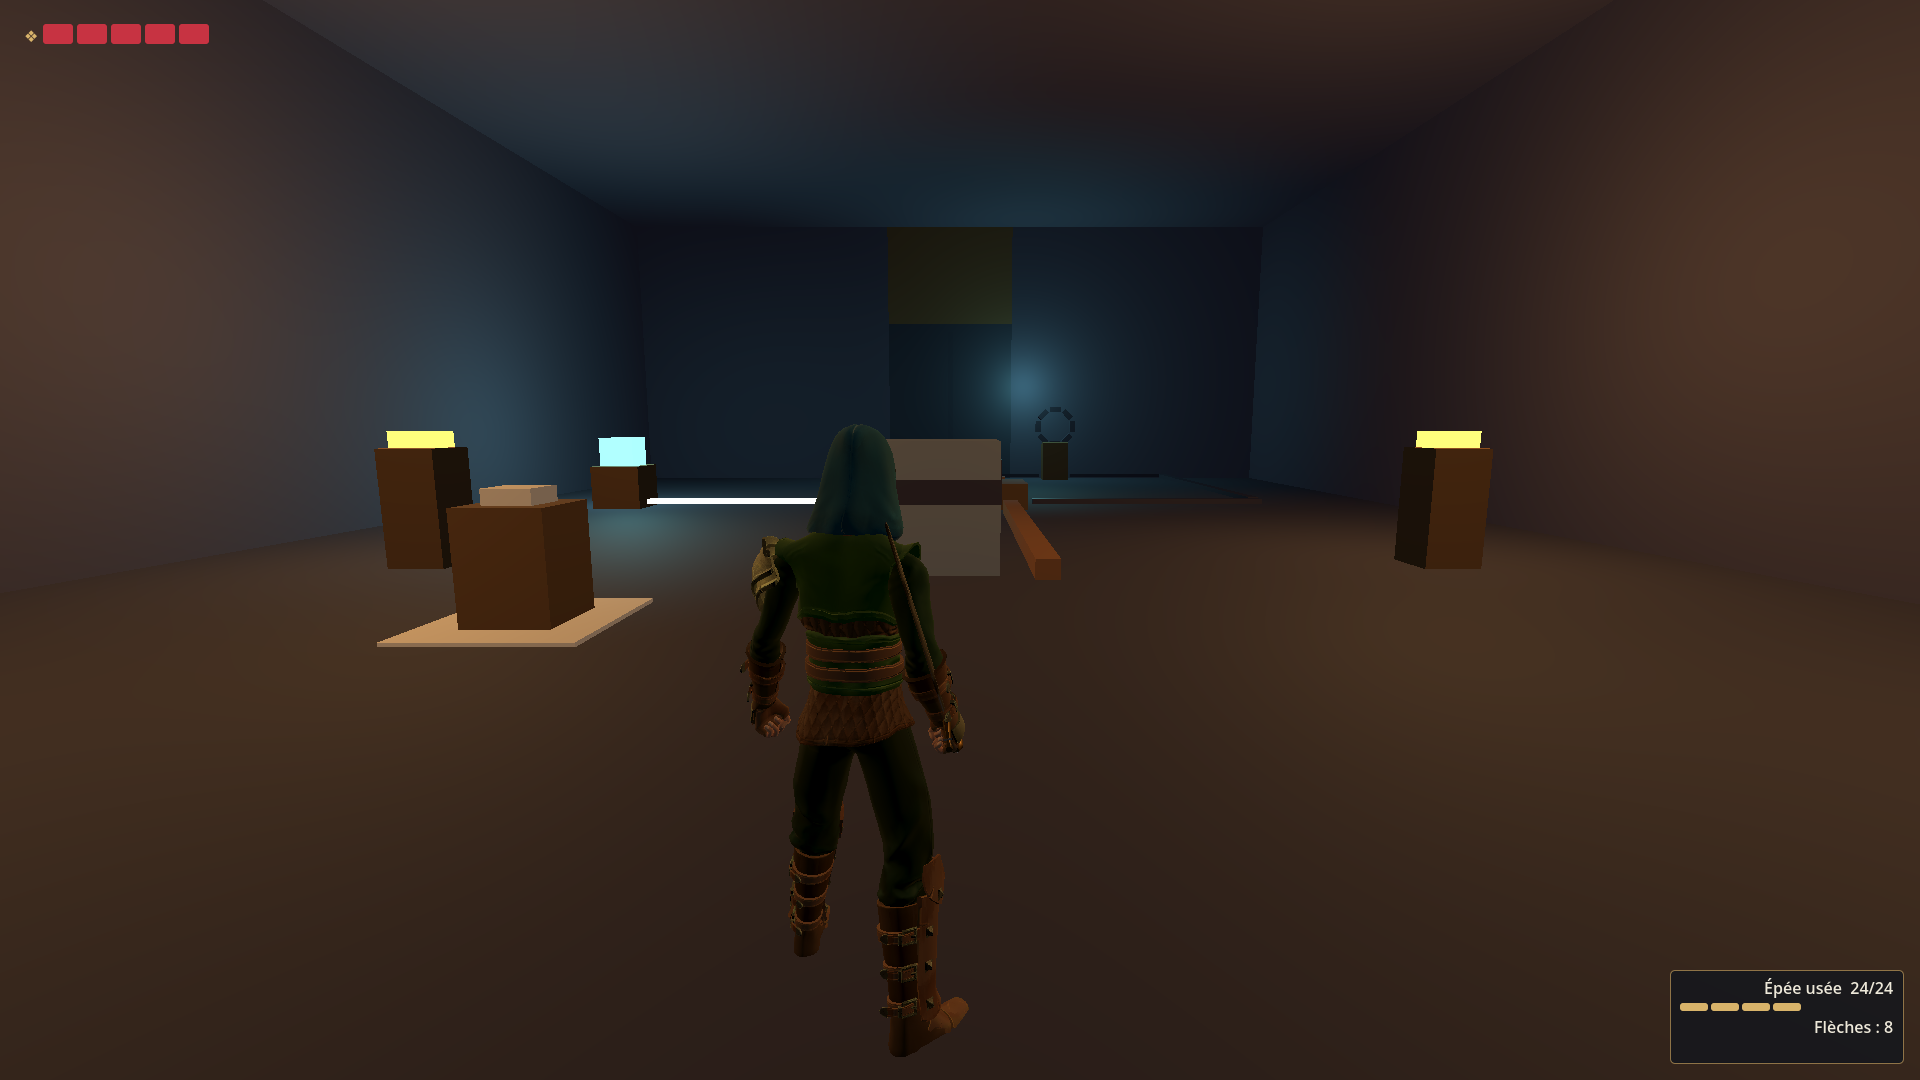
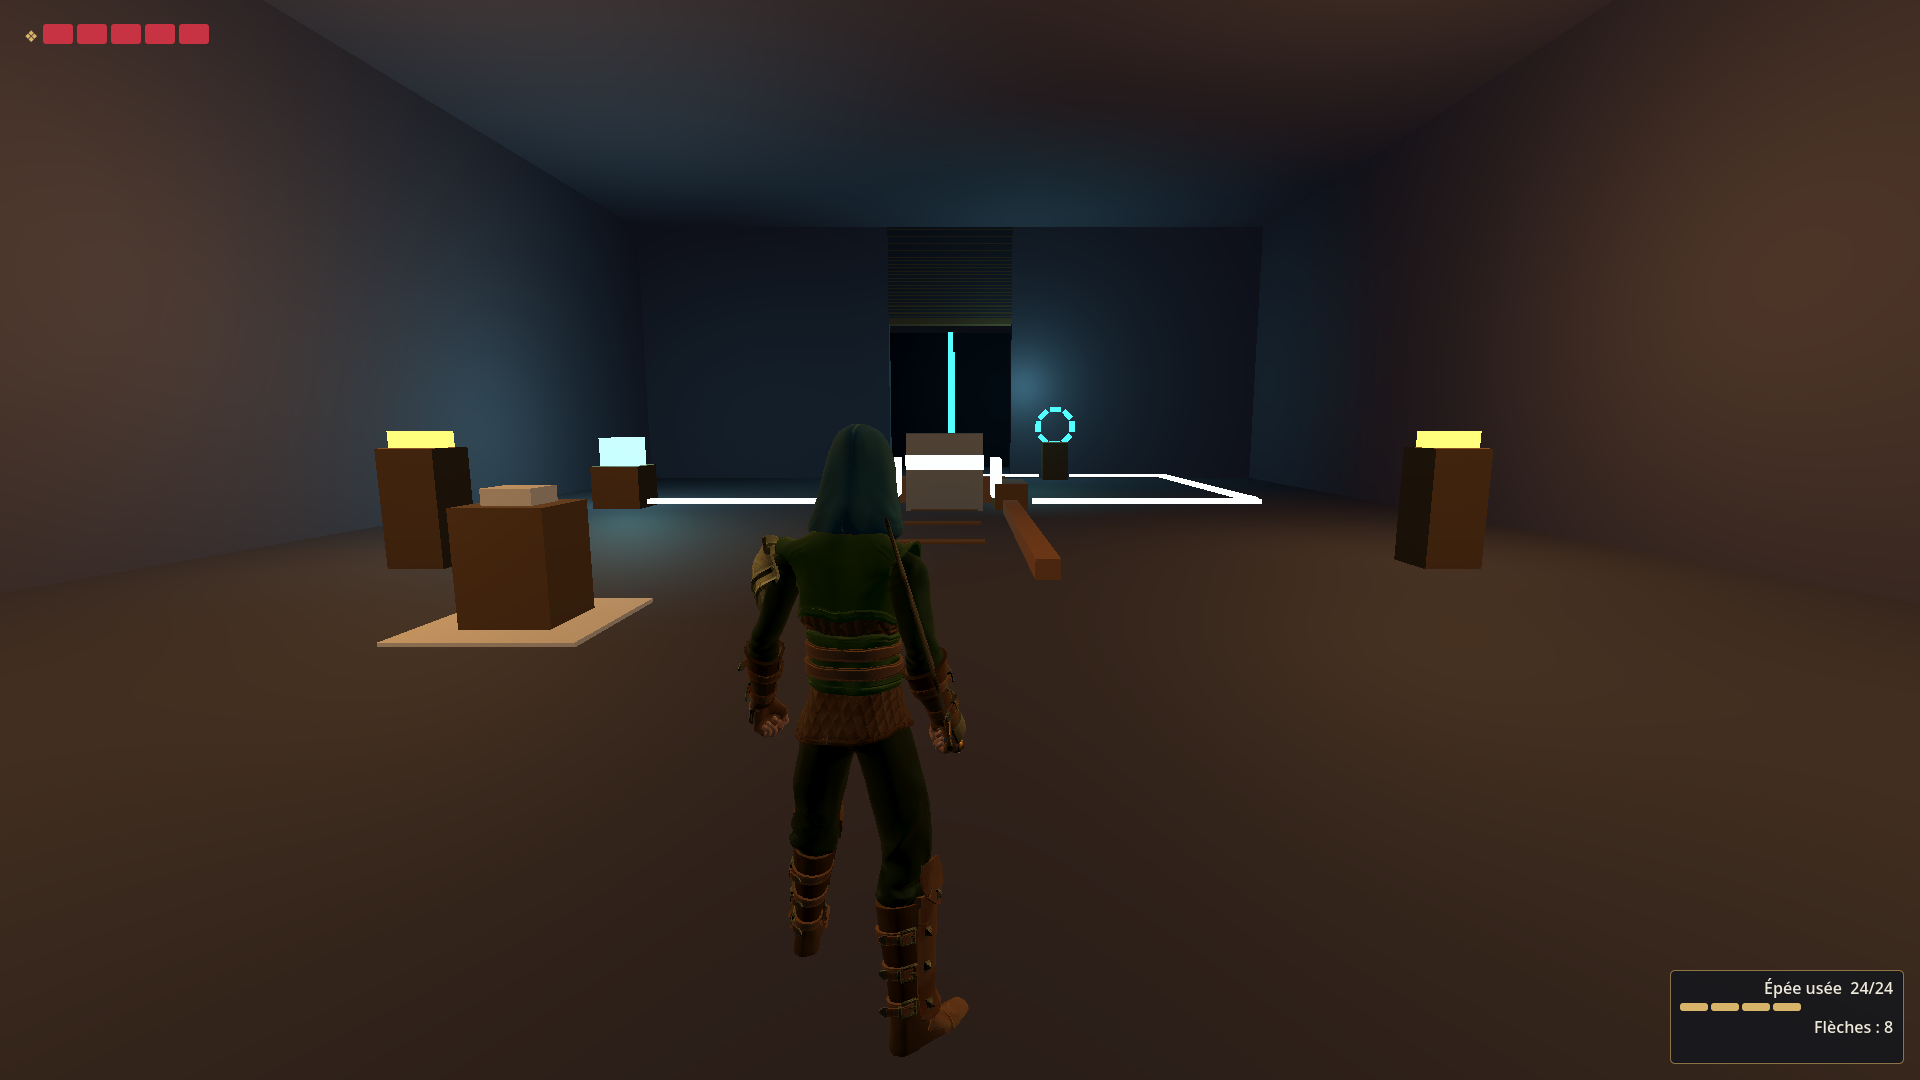
F.2 : preuves visuelles de la salle 1 et plancher à 390
Deux captures depuis l'arbre committé (`evidence/F2/`, repo_dirty: false) :
l'énigme telle qu'on la découvre — la ligne cyan s'arrête net au vide entre
les plaques — et la même image une fois le bloc au contact, circuit allumé
jusqu'à la porte, anneau du récepteur fermé, panneau monté sur un couloir
nord ouvert. Le README dit aussi ce qu'elles NE prouvent pas : ni
performance (llvmpipe), ni esthétique (graybox), ni lisibilité humaine.

validate_fast VERT, 390 tests, plancher porté à 390.

Claude-Session: https://claude.ai/code/session_015gXmwjy92ACTwqYRQazEMv

diff --git a/evidence/F2/README.md b/evidence/F2/README.md
@@ -1,0 +1,27 @@
+# Preuves du jalon F.2 — salle 1 d'initiation (§15.5)
+
+Commit des preuves : `082a530`, arbre propre (`repo_dirty: false` dans les
+deux manifestes). Captures produites par `tools/godot/capture_reference.gd`
+depuis le renderer réel, en **rendu logiciel** (Xvfb + Mesa llvmpipe) :
+utilisables pour la lecture et la régression visuelle, **jamais** pour une
+mesure de performance (CLAUDE.md, limites de l'environnement).
+
+| Fichier | Ce qu'il montre | Commande |
+|---|---|---|
+| `room1_entry.png` / `.json` | L'énigme telle que le joueur la découvre : source cyan à l'ouest, ligne de câbles allumée qui **s'arrête net** au vide entre les deux plaques, plaque est éteinte, bloc métallique dans le couloir de poussée, porte fermée, anneau du récepteur ouvert | `--scene=res://scenes/dungeon/rooms/Room1Initiation.tscn --frames=40 --label=f2_room1_entry` |
+| `room1_solved.png` / `.json` | Le même cadrage une fois le bloc au contact : le courant traverse, tout le circuit est allumé jusqu'à la porte, l'anneau du récepteur est **fermé**, le panneau est monté et le couloir nord est ouvert | idem `--frames=220 --label=f2_room1_solved --call=capture_state_solved` |
+
+`--call=capture_state_solved` ne triche pas : la méthode pose le bloc au
+point de contact — exactement ce que la poussée du joueur produit — puis
+laisse le chemin normal se dérouler (courant, anneau, délai de 0,9 s,
+mécanisme). Le test `test_the_player_pushes_the_block_and_opens_the_door`,
+lui, fait marcher le joueur sans aucun placement.
+
+## Ce que ces images ne prouvent pas
+
+- **Aucune mesure de performance** : llvmpipe, rendu logiciel.
+- **Aucun verdict esthétique** : la salle est un graybox ; l'art est Phase H.
+- **Aucune lisibilité humaine** : « compréhensible sans texte » (§15.5) exige
+  un œil qui n'a pas construit la salle. Protocole :
+  `docs/MANUAL_VALIDATION.md`. Tant qu'il n'a pas eu lieu, ce critère reste
+  `NON VÉRIFIÉ`.

diff --git a/docs/PROGRESS.md b/docs/PROGRESS.md
@@ -1699,7 +1699,20 @@ au mètre carré, pas de personnages finaux, pas de donjon complet.
 > en 1-2 s à son transform de secours (§14.3), rechargement DEPUIS LE
 > DISQUE d'une salle résolue (porte ouverte à la première image) et
 > d'une salle à mi-résolution (ni résolue, ni bloquée, encore soluble).
-> 11 tests `--filter=room1`, plancher relevé.
+> 12 tests `--filter=room1`, plancher relevé.
+> Deux captures depuis l'arbre COMMITTÉ (`evidence/F2/`, `repo_dirty:
+> false`) : l'énigme telle qu'on la découvre — la ligne cyan s'arrête net
+> au vide — et la même image une fois le bloc au contact, circuit allumé
+> jusqu'à la porte, anneau fermé, panneau monté. La première capture a
+> d'ailleurs révélé deux défauts qu'aucun test ne pouvait voir : le bloc
+> conducteur, sans matériau, passait pour une caisse de bois, et le
+> premier plan tombait dans le noir (§7.8 : « aucun couloir noir »).
+> Un diagnostic FAUX a été corrigé au passage : la capture « salle
+> résolue » montrait l'état initial, ce que j'ai d'abord attribué à un
+> blocage du solveur — la vraie cause est que `_ready()` ne tourne pas
+> dans `add_child()` depuis un script `SceneTree`, si bien que la
+> préparation tombait sur une scène à moitié construite. Le contournement
+> bâti sur la fausse cause a été retiré, pas empilé.
 > **PROCHAINE ACTION (F.3)** : salle 2, circuit vertical (§15.6) —
 > ascenseur non alimenté, puits latéral escaladable, électrodes
 > intermittentes au rythme observable, interrupteur supérieur qui

diff --git a/docs/STATUS.md b/docs/STATUS.md
@@ -462,7 +462,7 @@ automatisée** avant qu'une seule salle n'existe.
 |---|---|---|
 | `ElectricNode` — §15.1 complet (ID stable, ports orientés en local, conductivité, `enabled`, signaux, `set_powered` idempotent, zéro rendu) | **Fonctionnel** | `--filter=electric_graph` (11 tests) |
 | `ElectricGraph` — §15.2 point par point (marquage `dirty`, regroupement par tick, contacts réels port-à-port, BFS depuis toutes les sources, cycles bornés, signaux au seul changement) | **Fonctionnel** | idem : cycle de 4 câbles qui termine, 10 marquages = 1 recalcul, 20 ticks inactifs = 0 |
-| Salle 1 §15.5 — source, vide court, deux plaques, bloc mobile, propagation visible, porte différée, reset, solution imperdable | **Fonctionnel** | `--filter=room1` (11 tests) |
+| Salle 1 §15.5 — source, vide court, deux plaques, bloc mobile, propagation visible, porte différée, reset, solution imperdable | **Fonctionnel** | `--filter=room1` (12 tests) ; captures `evidence/F2/` (entrée et salle résolue, arbre propre) |
 | Le bloc est poussé **par le joueur**, à la marche, sans téléportation | **Fonctionnel** | `test_the_player_pushes_the_block_and_opens_the_door` : 7 m de poussée réelle, porte ouverte |
 | Délai d'ouverture dans la fenêtre 0,6-1,2 s | **Validé** | mesuré tick par tick (`test_the_door_waits_between_06_and_12_seconds`) |
 | Propagation lumineuse (le cyan voyage, il ne s'allume pas d'un bloc) | **Fonctionnel** | `test_the_light_travels_along_the_circuit` : le début du circuit est allumé avant sa fin |
